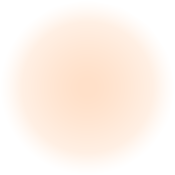
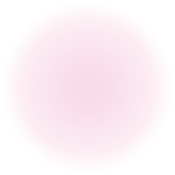
037_037A_コーディング（4/15）

Changed region(s): [[0.2857, 0.2857, 0.7143, 0.7143]]

diff --git a/037A/devStuff/src/config/_colorConfig.scss b/037A/devStuff/src/config/_colorConfig.scss
@@ -91,51 +91,57 @@ $catchText3_textShadowColor: #fff;
 $catchText3_borderColor: #d0edff;
 //032_lv1H-mainH
 $lv1H-mainH_hoverTextColor: #0066ff;
-$lv1H-mainH2_textColor: #029b41;
+$lv1H-mainH2_textColor: #0066ff;
 $lv1H-mainH2_textShadowColor: #fff;
-$lv1H-mainH4_textColor: #00652a;
-$lv1H-mainH4_borderColor: #00652a;
-$lv1H-mainH5_hoverTextColor: #63b700;
+$lv1H-mainH4_textColor: #0041a2;
+$lv1H-mainH4_borderColor: #0041a2;
+$lv1H-mainH5_hoverTextColor: $g-baseHoverColor;
 //033_lv2H
-$lv2H_hoverTextColor: #0066ff;
-$lv2H2_textColor: #029b41;
+$lv2H_hoverTextColor: $g-baseHoverColor;
+$lv2H2_textColor: #0066ff;
 $lv2H2_textShadowColor: #fff;
 $lv2H3_hoverTextColor: #0066ff;
-$lv2H4_borderColor: #029b41;
+$lv2H4_borderColor: #0066ff;
 $lv2H4_hoverTextColor: #0066ff;
-$lv2H5_borderColor: #029b41;
+$lv2H5_borderColor: #0066ff;
 $lv2H5_hoverTextColor: #0066ff;
 $lv2H6_borderColor: #000;
-$lv2H6_hoverTextColor: #0066ff;
-$lv2H7_borderColor: #029b41;
+$lv2H6_hoverTextColor: $g-baseHoverColor;
+$lv2H7_borderColor: #0066ff;
 $lv2H7_hoverTextColor: #0066ff;
-$lv2H8_textColor: #ff6c00;
+$lv2H8_textColor: #f96baa;
 $lv2H8_textShadowColor: #fff;
-$lv2H8_hoverTextColor: #63b700;
-$lv2H10_borderColor: #ff6c00;
-$lv2H11_borderColor: #ff6c00;
-$lv2H12_borderColor: #ff6c00;
+$lv2H8_hoverTextColor: $g-baseHoverColor;
+$lv2H9_hoverTextColor: #f96baa;
+$lv2H10_borderColor: #f96baa;
+$lv2H10_hoverTextColor: #f96baa;
+$lv2H11_borderColor: #f96baa;
+$lv2H11_hoverTextColor: #f96baa;
+$lv2H12_borderColor: #f96baa;
+$lv2H12_hoverTextColor: #f96baa;
 //034_lv3H
-$lv3H_hoverTextColor: #0066ff;
-$lv3H2_textColor: #029b41;
+$lv3H_hoverTextColor: $g-baseHoverColor;
+$lv3H2_textColor: #0066ff;
 $lv3H2_textShadowColor: #fff;
 $lv3H3_BGColor: #000;
-$lv3H3_hoverTextColor: #0066ff;
-$lv3H4_borderColor: #029b41;
+$lv3H3_hoverTextColor: $g-baseHoverColor;
+$lv3H4_borderColor: #0066ff;
 $lv3H4_hoverTextColor: #0066ff;
-$lv3H5_borderColor: #029b41;
+$lv3H5_borderColor: #0066ff;
 $lv3H5_hoverTextColor: #0066ff;
 $lv3H6_borderColor: #000;
-$lv3H6_hoverTextColor: #0066ff;
-$lv3H7_borderColor: #63b700;
-$lv3H7_hoverTextColor: #63b700;
-$lv3H8_textColor: #ff6c00;
+$lv3H6_hoverTextColor: $g-baseHoverColor;
+$lv3H7_borderColor: #0092fe;
+$lv3H7_hoverTextColor: #0092fe;
+$lv3H8_textColor: #f96baa;
 $lv3H8_textShadowColor: #fff;
-$lv3H8_hoverTextColor2: #63b700;
-$lv3H9_borderColor: #ff6c00;
-$lv3H10_borderColor: #ff6c00;
-$lv3H11_borderColor: #ffa200;
-$lv3H11_hoverTextColor: $g-baseHoverColor;
+$lv3H8_hoverTextColor2: $g-baseHoverColor;
+$lv3H9_borderColor: #f96baa;
+$lv3H9_hoverTextColor: #f88bbb;
+$lv3H10_borderColor: #f96baa;
+$lv3H10_hoverTextColor: #f88bbb;
+$lv3H11_borderColor: #f88bbb;
+$lv3H11_hoverTextColor: #f88bbb;
 //035lv4H
 $lv4H_textShadowColor: #fff;
 $lv4H_BGColor: #d7effd;
@@ -147,7 +153,6 @@ $lv4H4_textShadowColor: #fff;
 $lv4H4_BGColor: #e0f0be;
 $lv4H5_textShadowColor: #fff;
 $lv4H5_BGColor: #ffe8ba;
-
 $lv4H6_textShadowColor: #fff;
 $lv4H6_borderColor: #ecf8ff;
 $lv4H6_borderColor2: #d7effd;
@@ -1066,41 +1071,41 @@ $footerCombi2_BGColor: #f7f7f7;
 $footerCombi3_BGColor: #f1f5fd;
 $footerCombi4_BGColor: #fff5f9;
 //203_footerFullWidthFrame
-$footerFullWidthFrame_BGColor: #eef4df;
+$footerFullWidthFrame_BGColor: #f1f5fd;
 $footerFullWidthFrame2_BGColor: $footerFullWidthFrame_BGColor;
-$footerFullWidthFrame3_BGColor: #fff0e2;
+$footerFullWidthFrame3_BGColor: #fff5f9;
 $footerFullWidthFrame4_BGColor: $footerFullWidthFrame3_BGColor;
 $footerFullWidthFrame5_BGColor: #fff9e2;
 $footerFullWidthFrame6_BGColor: $footerFullWidthFrame5_BGColor;
-$footerFullWidthFrame7_BGColor: #abd54c;
+$footerFullWidthFrame7_BGColor: #009dff;
 $footerFullWidthFrame7_BGColor2: #fff;
 $footerFullWidthFrame8_BGColor: $footerFullWidthFrame7_BGColor;
 $footerFullWidthFrame8_BGColor2: $footerFullWidthFrame7_BGColor2;
 $footerFullWidthFrame9_BGColor: #fff;
 $footerFullWidthFrame10_BGColor: $footerFullWidthFrame9_BGColor;
-$footerFullWidthFrame11_BGColor: #f2f9fd;
+$footerFullWidthFrame11_BGColor: #eef4df;
 $footerFullWidthFrame12_BGColor: $footerFullWidthFrame11_BGColor;
-$footerFullWidthFrame13_BGColor: #fef3f5;
+$footerFullWidthFrame13_BGColor: #fff0e2;
 $footerFullWidthFrame14_BGColor: $footerFullWidthFrame13_BGColor;
-$footerFullWidthFrame15_BGColor: #e0f6b2;
+$footerFullWidthFrame15_BGColor: #d1e3ff;
 $footerFullWidthFrame16_BGColor: $footerFullWidthFrame15_BGColor;
-$footerFullWidthFrame17_BGColor: #ffe5cc;
+$footerFullWidthFrame17_BGColor: #ffe7f2;
 $footerFullWidthFrame18_BGColor: $footerFullWidthFrame17_BGColor;
 $footerFullWidthFrame19_BGColor: #fff6cc;
 $footerFullWidthFrame20_BGColor: $footerFullWidthFrame19_BGColor;
 $footerFullWidthFrame21_BGColor: #d2eeff;
 $footerFullWidthFrame22_BGColor: $footerFullWidthFrame21_BGColor;
-$footerFullWidthFrame23_BGColor: #fcdde1;
+$footerFullWidthFrame23_BGColor: #ffe5cc;
 $footerFullWidthFrame24_BGColor: $footerFullWidthFrame23_BGColor;
-$footerFullWidthFrame25_BGColor: #00c14f;
+$footerFullWidthFrame25_BGColor: #009dff;
 $footerFullWidthFrame26_BGColor: $footerFullWidthFrame25_BGColor;
-$footerFullWidthFrame27_BGColor: #8bd740;
+$footerFullWidthFrame27_BGColor: #ff98db;
 $footerFullWidthFrame28_BGColor: $footerFullWidthFrame27_BGColor;
 $footerFullWidthFrame29_BGColor: #ff8429;
 $footerFullWidthFrame30_BGColor: $footerFullWidthFrame29_BGColor;
 $footerFullWidthFrame31_BGColor: #ffb419;
 $footerFullWidthFrame32_BGColor: $footerFullWidthFrame31_BGColor;
-$footerFullWidthFrame33_BGColor: #0891e0;
+$footerFullWidthFrame33_BGColor: #00c14f;
 $footerFullWidthFrame34_BGColor: $footerFullWidthFrame33_BGColor;
 $footerFullWidthFrame35_BGColor: #ef5d72;
 $footerFullWidthFrame36_BGColor: $footerFullWidthFrame35_BGColor;
@@ -1108,31 +1113,31 @@ $footerFullWidthFrame37_BGColor: #f9f9f4;
 $footerFullWidthFrame38_BGColor: $footerFullWidthFrame37_BGColor;
 $footerFullWidthFrame39_BGColor: #eaeaea;
 $footerFullWidthFrame40_BGColor: $footerFullWidthFrame39_BGColor;
-$footerFullWidthFrame41_BGColor: #f2f7e7;
-$footerFullWidthFrame41_BGColor2: #fafcf6;
+$footerFullWidthFrame41_BGColor: #eff5ff;
+$footerFullWidthFrame41_BGColor2: #f9fbfd;
 $footerFullWidthFrame42_BGColor: $footerFullWidthFrame41_BGColor;
 $footerFullWidthFrame42_BGColor2: $footerFullWidthFrame41_BGColor2;
-$footerFullWidthFrame43_BGColor: #fff2e5;
-$footerFullWidthFrame43_BGColor2: #fffbf7;
+$footerFullWidthFrame43_BGColor: #fff3f8;
+$footerFullWidthFrame43_BGColor2: #fffcfd;
 $footerFullWidthFrame44_BGColor: $footerFullWidthFrame43_BGColor;
 $footerFullWidthFrame44_BGColor2: $footerFullWidthFrame43_BGColor2;
-$footerFullWidthFrame45_BGColor: #fafcf6;
-$footerFullWidthFrame45_BGColor2: #f2f7e7;
+$footerFullWidthFrame45_BGColor: #f9fbfd;
+$footerFullWidthFrame45_BGColor2: #eff5ff;
 $footerFullWidthFrame46_BGColor: $footerFullWidthFrame45_BGColor;
 $footerFullWidthFrame46_BGColor2: $footerFullWidthFrame45_BGColor2;
-$footerFullWidthFrame47_BGColor: #fffbf7;
-$footerFullWidthFrame47_BGColor2: #fff2e5;
+$footerFullWidthFrame47_BGColor: #fffcfd;
+$footerFullWidthFrame47_BGColor2: #fff3f8;
 $footerFullWidthFrame48_BGColor: $footerFullWidthFrame47_BGColor;
 $footerFullWidthFrame48_BGColor2: $footerFullWidthFrame47_BGColor2;
 $footerFullWidthFrame49_BGColor: #fff;
-$footerFullWidthFrame49_BGColor2: #f2fae1;
-$footerFullWidthFrame49_BGColor3: #f7fced;
+$footerFullWidthFrame49_BGColor2: #eff5ff;
+$footerFullWidthFrame49_BGColor3: #f4f8ff;
 $footerFullWidthFrame50_BGColor: $footerFullWidthFrame49_BGColor;
 $footerFullWidthFrame50_BGColor2: $footerFullWidthFrame49_BGColor2;
 $footerFullWidthFrame50_BGColor3: $footerFullWidthFrame49_BGColor3;
 $footerFullWidthFrame51_BGColor: #fff;
-$footerFullWidthFrame51_BGColor2: #fff2e5;
-$footerFullWidthFrame51_BGColor3: #fff8f1;
+$footerFullWidthFrame51_BGColor2: #fef2f7;
+$footerFullWidthFrame51_BGColor3: #fff6f9;
 $footerFullWidthFrame52_BGColor: $footerFullWidthFrame51_BGColor;
 $footerFullWidthFrame52_BGColor2: $footerFullWidthFrame51_BGColor2;
 $footerFullWidthFrame52_BGColor3: $footerFullWidthFrame51_BGColor3;
@@ -1219,7 +1224,7 @@ $headerFullWidthMedia2_BGColor: $headerFullWidthMedia_BGColor;
 $headerFullWidthMedia3_BGColor: $headerFullWidthMedia_BGColor;
 $headerFullWidthMedia4_BGColor: $headerFullWidthMedia_BGColor;
 $headerFullWidthMedia5_BGColor: $headerFullWidthMedia_BGColor;
-$headerFullWidthMedia-text_textColor: #029b41;
+$headerFullWidthMedia-text_textColor: #0066ff;
 $headerFullWidthMedia-text_textShadowColor: #fff;
 $headerFullWidthMedia-text_textShadowColor2: #000;
 $headerFullWidthMedia-text2_textColor: #fff;
@@ -1228,18 +1233,18 @@ $headerFullWidthMedia-text3_borderColor: #fff;
 $headerFullWidthMedia-text3_textColor: #fff;
 $headerFullWidthMedia-text4_borderColor: #fff;
 $headerFullWidthMedia-text4_textColor: #fff;
-$headerFullWidthMedia-text5_BGColor: #029b41;
+$headerFullWidthMedia-text5_BGColor: #0066ff;
 $headerFullWidthMedia-text5_textColor: #fff;
 $headerFullWidthMedia-text6_BGColor: #f2f2f2;
-$headerFullWidthMedia-text6_borderColor: #029b41;
+$headerFullWidthMedia-text6_borderColor: #0066ff;
 $headerFullWidthMedia-text6_textColor: #333;
 $headerFullWidthMedia-text7_BGColor: #fff;
 $headerFullWidthMedia-text7_boxShadowColor: #bbb;
 $headerFullWidthMedia-text7_textColor: #333;
-$headerFullWidthMedia-text8_BGColor: #029b41;
-$headerFullWidthMedia-text8_borderColor: #029b41;
+$headerFullWidthMedia-text8_BGColor: #0066ff;
+$headerFullWidthMedia-text8_borderColor: #0066ff;
 $headerFullWidthMedia-text8_textColor: #fff;
-$headerFullWidthMedia-text8_textShadowColor: #029b41;
+$headerFullWidthMedia-text8_textShadowColor: #0066ff;
 $headerFullWidthMedia-text9_BGColor: #fff;
 $headerFullWidthMedia-text9_textColor: #555;
 //208_headerSingle

diff --git a/037/devStuff/src/parts/_033_lv2H.scss b/037/devStuff/src/parts/_033_lv2H.scss
@@ -443,6 +443,12 @@
     justify-content: center;
     position: relative;
     z-index: z(lv2H, 1);
+    a {
+      &:hover {
+        color: $lv2H9_hoverTextColor;
+      }
+    }
+
     h2 {
       @include g-font-layout($_fontSize, 1, $layout);
       position: relative;
@@ -516,6 +522,12 @@
     overflow: hidden;
     position: relative;
     z-index: z(lv2H, 1);
+    a {
+      &:hover {
+        color: $lv2H10_hoverTextColor;
+      }
+    }
+
     h2 {
       @include g-font-layout($_fontSize, 1, $layout);
       position: relative;
@@ -578,6 +590,12 @@
     text-align: center;
     position: relative;
     z-index: z(lv2H, 1);
+    a {
+      &:hover {
+        color: $lv2H11_hoverTextColor;
+      }
+    }
+
     h2 {
       @include g-font-layout($_fontSize, 1, $layout);
     }
@@ -611,6 +629,12 @@
     $_fontSize_l: $_fontSize + $_fontSizeDiff;
     position: relative;
     z-index: z(lv2H, 1);
+    a {
+      &:hover {
+        color: $lv2H12_hoverTextColor;
+      }
+    }
+
     > div {
       display: flex;
     }

diff --git a/037/devStuff/src/config/_colorConfig.scss b/037/devStuff/src/config/_colorConfig.scss
@@ -112,9 +112,13 @@ $lv2H7_hoverTextColor: #029b41;
 $lv2H8_textColor: #ff6c00;
 $lv2H8_textShadowColor: #fff;
 $lv2H8_hoverTextColor: #63b700;
+$lv2H9_hoverTextColor: #ff6c00;
 $lv2H10_borderColor: #ff6c00;
+$lv2H10_hoverTextColor: #ff6c00;
 $lv2H11_borderColor: #ff6c00;
+$lv2H11_hoverTextColor: #ff6c00;
 $lv2H12_borderColor: #ff6c00;
+$lv2H12_hoverTextColor: #ff6c00;
 //034_lv3H
 $lv3H_hoverTextColor: #029b41;
 $lv3H2_textColor: #029b41;
@@ -133,7 +137,9 @@ $lv3H8_textColor: #ff6c00;
 $lv3H8_textShadowColor: #fff;
 $lv3H8_hoverTextColor2: #63b700;
 $lv3H9_borderColor: #ff6c00;
+$lv3H9_hoverTextColor: #ff6c00;
 $lv3H10_borderColor: #ff6c00;
+$lv3H10_hoverTextColor: #ff6c00;
 $lv3H11_borderColor: #ffa200;
 $lv3H11_hoverTextColor: #ffa200;
 //035lv4H

diff --git a/037/devStuff/src/parts/_034_lv3H.scss b/037/devStuff/src/parts/_034_lv3H.scss
@@ -434,6 +434,12 @@
     overflow: hidden;
     position: relative;
     z-index: z(lv3H, 1);
+    a {
+      &:hover {
+        color: $lv3H9_hoverTextColor;
+      }
+    }
+
     h3 {
       @include g-font-layout($_fontSize, 1, $layout);
       position: relative;
@@ -496,6 +502,12 @@
     text-align: center;
     position: relative;
     z-index: z(lv3H, 1);
+    a {
+      &:hover {
+        color: $lv3H10_hoverTextColor;
+      }
+    }
+
     h3 {
       @include g-font-layout($_fontSize, 1, $layout);
     }
